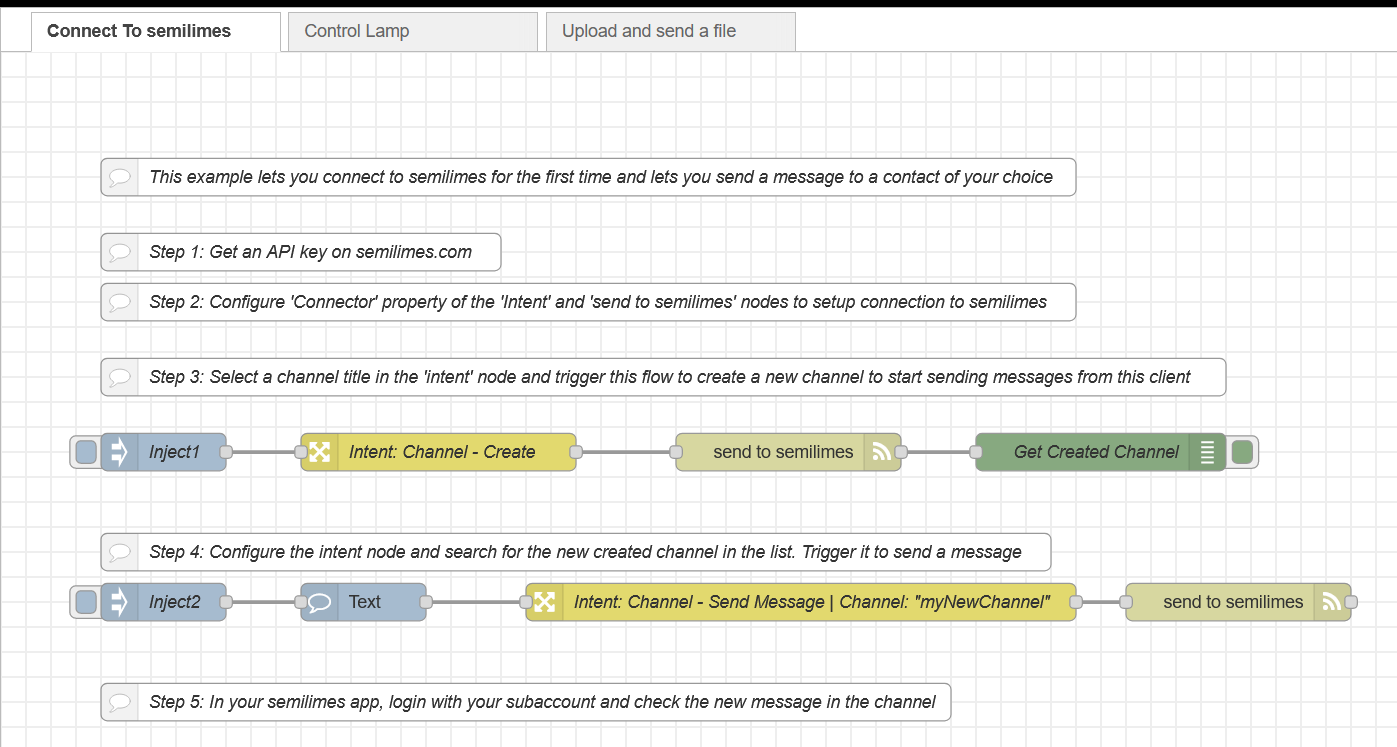
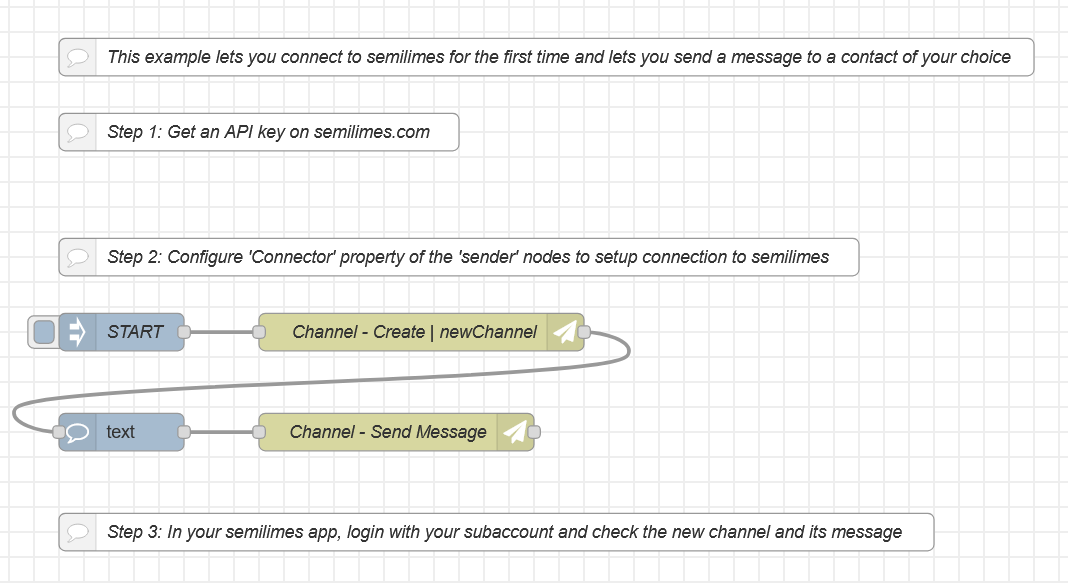
Updated Readme and resources

diff --git a/README.md b/README.md
@@ -43,28 +43,24 @@ You can install the nodes by either
 
 ## Connect to semilimes
 
-1. Add a new `Text` node and configure it with your preferred message
+1. Add a standard `inject` node
 
-2. Add an `Intent` node and config its `Connector` property to create a `connector` configuration. Configure the node by selecting the `Channel - Create` intent and entering a title for the new channel.
+2. Add and connect a `Sender` node, select `Channel - Create` and give it a title. This will be your new channel name. Make sure you give a value to the `Save ChannelId` property, you will reuse this later.
+
+3. In the same node, configure its `Connector` property to create a connection configuration, and enter your API key.
 ![Config connector node](resources/images/connector_node_properties.jpg)
 
-1. Add a `sender` node then config its `Connector` property by selecting the previously created connector.
-2. ![Property editor of sender node](resources/images/sender_node_properties.jpg)
+4. Add and connect a `Message` node and select the `Text` message option, then enter a message in the Text field.
 
+5. Add and connect another `Sender` node, this time for actually sending the message. Select `Channel - Send` and configure its `ChannelId` property with the one you previously saved in step 2.
 
-3. Run the flow to create the new channel.
+6. Make sure you select the previously created `Connector` in this node as well.
+![Property editor of sender node](resources/images/sender_node_properties.jpg)
 
-4. In another flow, add a `Text` node with a message
+7. Run the flow and access your semilimes app with the subaccount corresponding to your API key. You will find a new channel containing your first message!
 
-5. Add an `Intent` node and select `Channel - Send Message` and configure the channel
-
-6. Add a `sender` node and run.
-
-The flow should look like this [example](https://github.com/semilimes/nodered-publicapi-connector/blob/main/examples/Connect%20To%20semilimes%20flow.json)
-
-![connect to semilimes flow example](resources/images/connecttosemilimesflow.png)
-
-You have sent your first message!
+For reference, your completed flow should look like this
+![example](/resources/images/connecttosemilimesflow.png)
 
 
 # Examples
